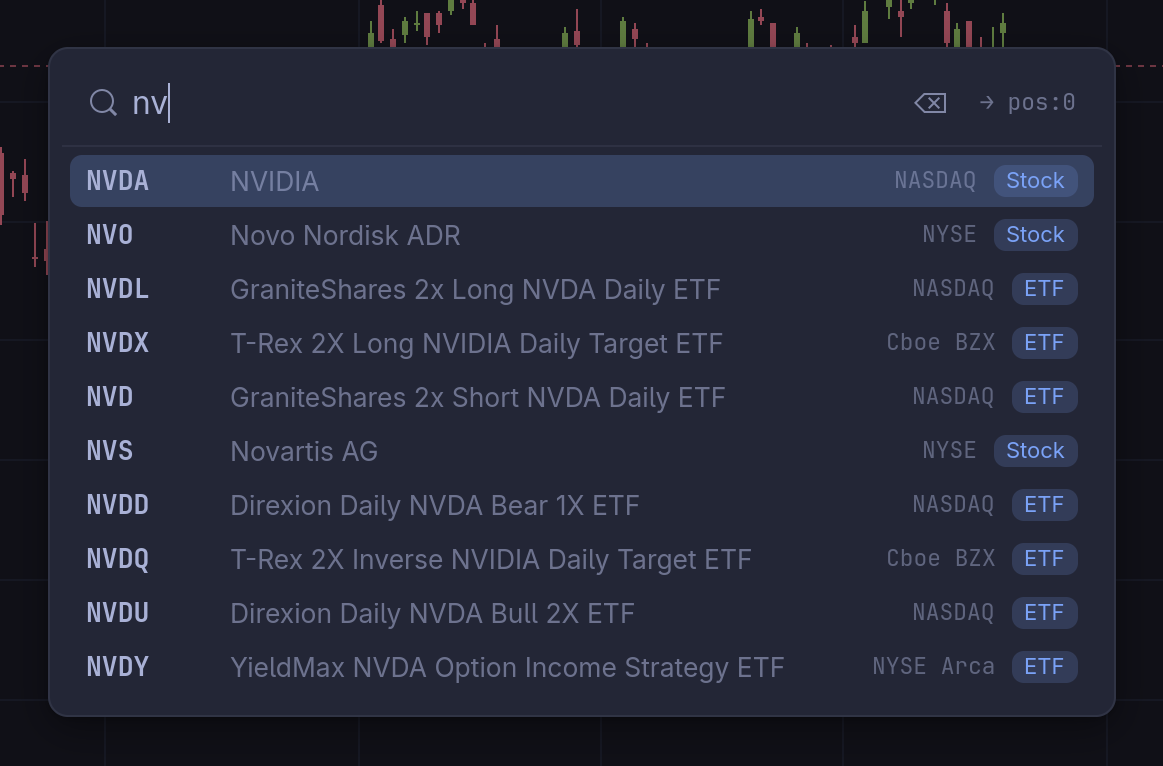
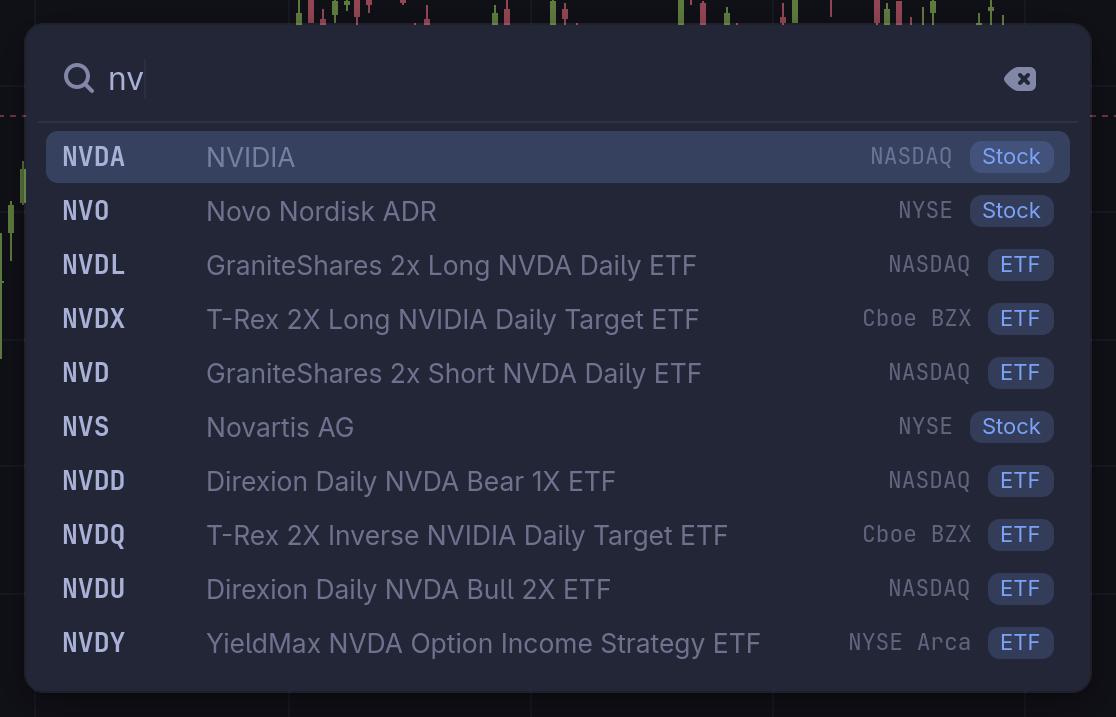
Drop the chart position from the symbol search row (#110)
* Drop the chart position from the symbol search row

* Retake the symbol search screenshots without the position

---------

diff --git a/src/ui/pick_frame.rs b/src/ui/pick_frame.rs
@@ -35,21 +35,20 @@ const FEWEST_ROWS: i32 = 5;
 
 /// What the frame opens over.
 pub enum Over {
-    /// One chart: every chart fades, `ring` (the chart's pane) wears a ring
-    /// twice the focus ring's width, and the search row names it by
-    /// position, the way every command names a chart. A bare frame names
-    /// nothing: the ring says which.
-    Chart { inside: gtk::Widget, shades: Vec<gtk::Widget>, ring: gtk::Widget, at: usize },
+    /// One chart: every chart fades and `ring` (the chart's pane) wears a
+    /// ring twice the focus ring's width. The ring says which; the search
+    /// row names nothing.
+    Chart { inside: gtk::Widget, shades: Vec<gtk::Widget>, ring: gtk::Widget },
     /// The window, for a pick that changes no chart. `name` is what it does
     /// change.
     Window { inside: gtk::Widget, name: String },
 }
 
 impl Over {
-    /// Over `pane`, at `at` among `all`, the charts on screen.
-    pub fn chart<'a>(pane: &ChartPane, all: impl IntoIterator<Item = &'a ChartPane>, at: usize) -> Over {
+    /// Over `pane`, among `all`, the charts on screen.
+    pub fn chart<'a>(pane: &ChartPane, all: impl IntoIterator<Item = &'a ChartPane>) -> Over {
         let shades = all.into_iter().map(|pane| pane.shade.clone().upcast()).collect();
-        Over::Chart { inside: window_content(&pane.root), shades, ring: pane.root.clone().upcast(), at }
+        Over::Chart { inside: window_content(&pane.root), shades, ring: pane.root.clone().upcast() }
     }
 
     /// Centred on the window `from` is in, naming `name`.
@@ -81,8 +80,8 @@ pub struct PickFrame {
     content: gtk::Box,
     /// The search row: the box and the chart it acts on.
     query: gtk::Box,
-    /// "→ pos:1": which chart a pick will change. On a bare frame, the
-    /// line under the title.
+    /// "→ Semis · Memory": what a pick changes when it is not a chart. On a
+    /// bare frame, the line under the title.
     target: gtk::Label,
     /// The charts' shades, and the pane wearing the wide ring, while open.
     shade: RefCell<Option<(Vec<gtk::Widget>, gtk::Widget)>>,
@@ -383,12 +382,8 @@ impl PickFrame {
         *self.on_pick.borrow_mut() = Some(Rc::new(on_pick));
 
         let anchor = match over {
-            Over::Chart { inside, shades, ring, at } => {
-                let bare = self.overlay.borrow().is_some();
-                self.target.set_text(&match bare {
-                    true => String::new(),
-                    false => format!("→ pos:{at}"),
-                });
+            Over::Chart { inside, shades, ring } => {
+                self.target.set_text("");
                 for shade in shades {
                     shade.set_visible(true);
                 }

diff --git a/src/ui/window.rs b/src/ui/window.rs
@@ -5504,13 +5504,11 @@ impl Window {
     }
 
     /// Where a picker opens: over the focused chart, which is the one a pick
-    /// changes, named by its position.
+    /// changes.
     fn over_focused(&self) -> Over {
         let pane = self.focused_pane();
-        let leaves = self.layout.borrow().leaves();
-        let at = leaves.iter().position(|leaf| *leaf == pane.id).unwrap_or(0);
         let panes = self.panes.borrow();
-        Over::chart(&pane, panes.iter().map(|pane| pane.as_ref()), at)
+        Over::chart(&pane, panes.iter().map(|pane| pane.as_ref()))
     }
 
     /// The resolution box: type "3", "15", "4h", "1D".

diff --git a/site/manual/symbols.md b/site/manual/symbols.md
@@ -19,7 +19,7 @@ A digit typed over the chart opens **Change resolution** instead ([Charts](/manu
 
 ## The search
 
-The search opens near the top of the window, in the same place whichever chart is focused. Every chart fades, the one a pick will change wears a wider focus ring, and the end of the search row names it, such as **→ pos:1**. Adding a symbol to a watchlist changes no chart, so nothing fades and the row names the watchlist instead ([Watchlists](/manual/watchlists/#symbols)).
+The search opens near the top of the window, in the same place whichever chart is focused. Every chart fades, and the one a pick will change wears a wider focus ring. Adding a symbol to a watchlist changes no chart, so nothing fades and the end of the search row names the watchlist instead ([Watchlists](/manual/watchlists/#symbols)).
 
 <!-- regenerate:
 theme: tokyo-night
@@ -30,14 +30,14 @@ state:
   omacharts chart set --resolution 1D
   click 400 400
   key ctrl+b                          # sidebar hidden
-  omacharts chart split horizontal    # pos:1, on the right, is focused
+  omacharts chart split horizontal    # the new chart, on the right, is focused
   move 1100 650
   key s
   type emi
 capture: bin/headless-window shot /tmp/search.png
 crop: none (resized to 2000 wide, JPEG)
 -->
-{% include figure.html src="/assets/manual/symbols/search-semi.jpg" alt="The symbol search with semi typed over two NVDA daily charts, listing SEMI, SMH, SOXX, TSM and other matches with their names, venues and kinds; the right-hand chart is dimmed and the search row ends in → pos:1" caption="The search with semi typed. It will change the dimmed chart, pos:1." %}
+{% include figure.html src="/assets/manual/symbols/search-semi.jpg" alt="The symbol search with semi typed over two NVDA daily charts, listing SEMI, SMH, SOXX, TSM and other matches with their names, venues and kinds; the right-hand chart wears the wider ring" caption="The search with semi typed. It will change the chart with the wider ring, on the right." %}
 
 The box reads **Symbol or name**. It matches a ticker or any part of a name, in the instrument's own language too. `台積` finds 2330.TW. Empty, it lists the majors.
 

diff --git a/site/manual/quick-start.md b/site/manual/quick-start.md
@@ -41,7 +41,7 @@ state:
   type nv
   move 960 650           # off the list, so no row is hovered
 capture: bin/headless-window shot search.png
-crop: 698,193,1163,766   (the search, 24px layout margin)
+crop: 722,217,1116,717   (the search, 24px layout margin)
 -->
 {% include figure.html src="/assets/manual/quick-start/search.png" alt="The symbol search with nv typed and NVDA highlighted at the top" caption="The search with nv typed." %}
 
